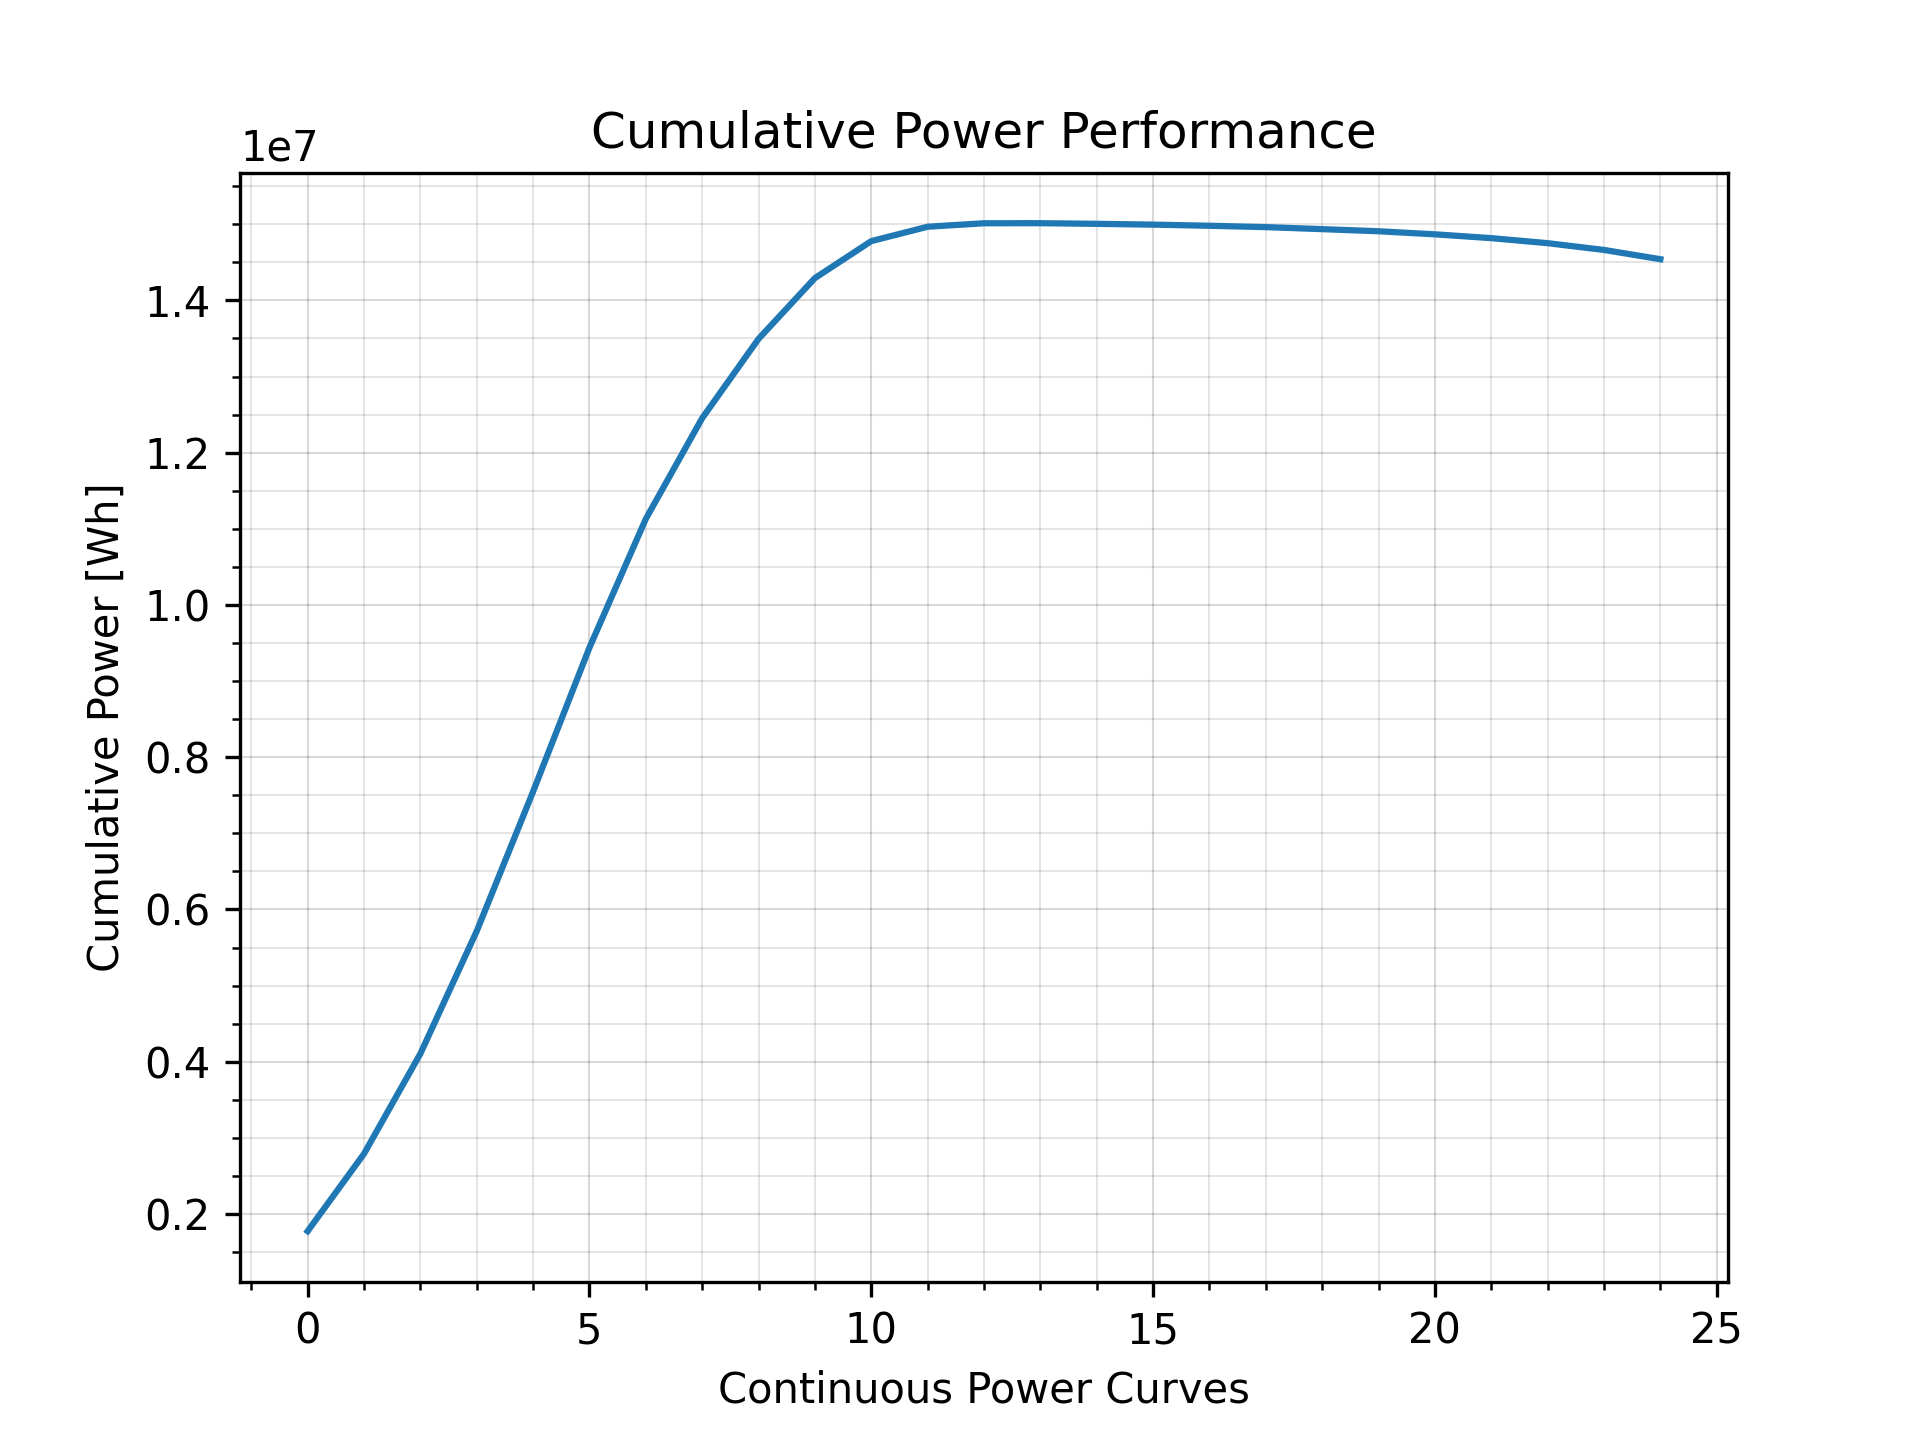
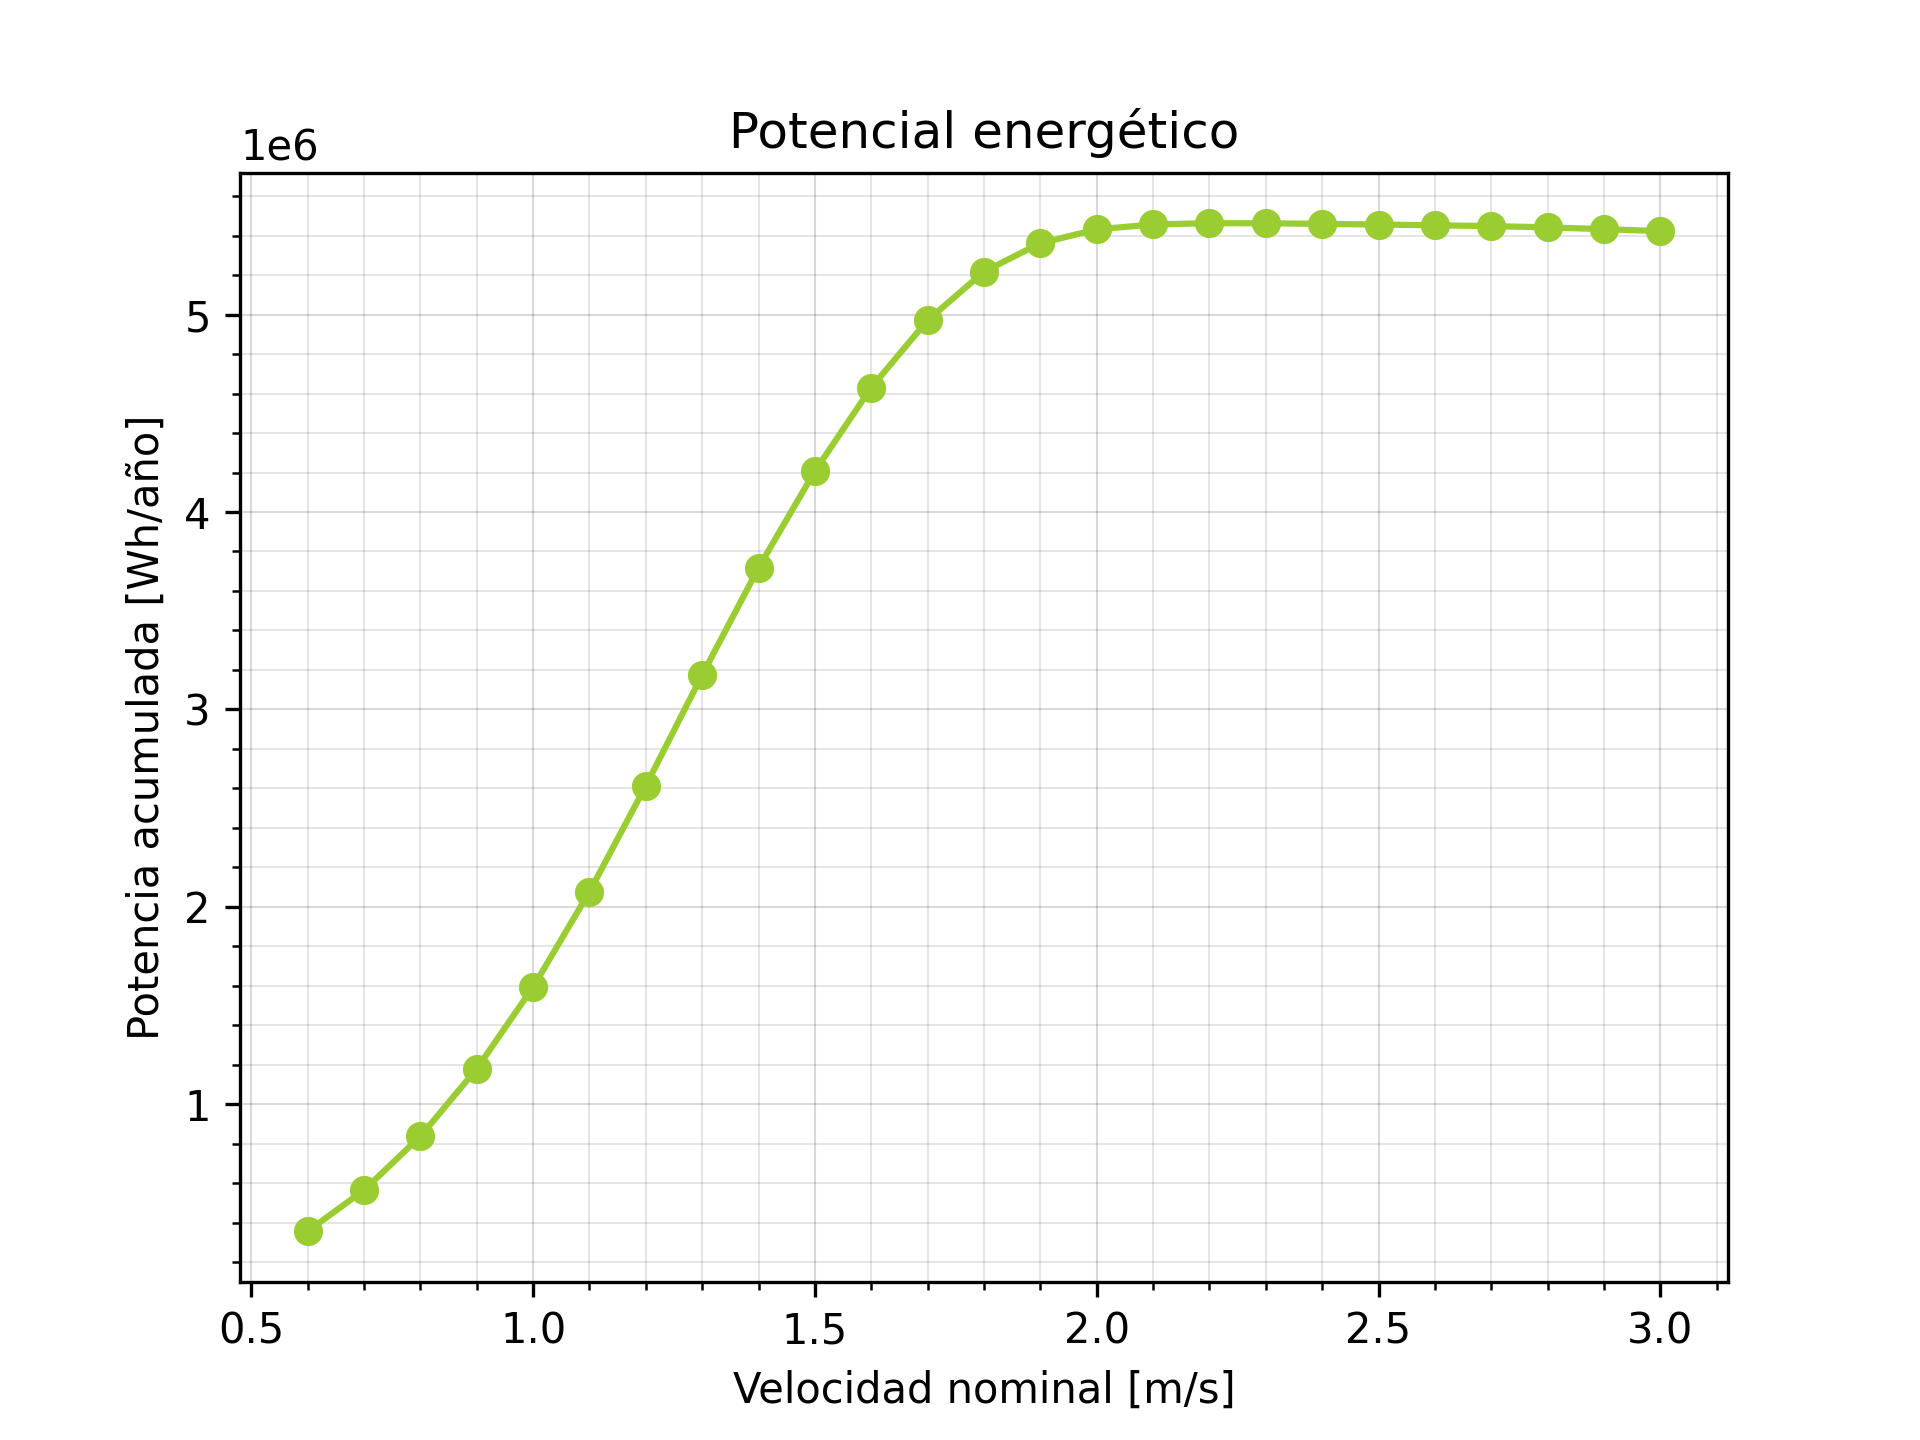
Message: update november,13 2024

diff --git a/utils/mapping.py b/utils/mapping.py
@@ -79,9 +79,9 @@ def plot_histograms(data: pd.DataFrame, relative: bool = True):
         for node in data.columns:
             ax.hist(data.index, bins=data.index, weights=data[node], alpha=0.7, label=node)
         ax.legend()
-        plt.xlabel('Velocity [m/s]')
-        plt.ylabel('Relative Frequency')
-        plt.title('Velocity Histograms')
+        plt.xlabel('Velocidad [m/s]')
+        plt.ylabel('Frecuencia relativa')
+        plt.title('Histogramas de velocidad')
         plt.minorticks_on()
         plt.grid(which='major', linestyle='-', linewidth='0.5', color='black', alpha=0.15)
         plt.grid(which='minor', linestyle='-', linewidth='0.5', color='black', alpha=0.10)
@@ -134,10 +134,10 @@ def plot_power_curves_continuous(cumulated_power: np.array):
     :param cumulated_power: cumulative power performance for the power curves.
     :return: bar plot with the cumulative power performance for each power curve.
     """
-    plt.plot(cumulated_power)
-    plt.xlabel('Continuous Power Curves')
-    plt.ylabel('Cumulative Power [Wh]')
-    plt.title('Cumulative Power Performance')
+    plt.plot( np.arange(0.6, 3.1, 0.1), cumulated_power/5, marker='o', color='YellowGreen')
+    plt.xlabel('Velocidad nominal [m/s]')
+    plt.ylabel('Potencia acumulada [Wh/año]')
+    plt.title('Potencial energético')
     plt.minorticks_on()
     plt.grid(which='major', linestyle='-', linewidth='0.5', color='black', alpha=0.15)
     plt.grid(which='minor', linestyle='-', linewidth='0.5', color='black', alpha=0.10)
